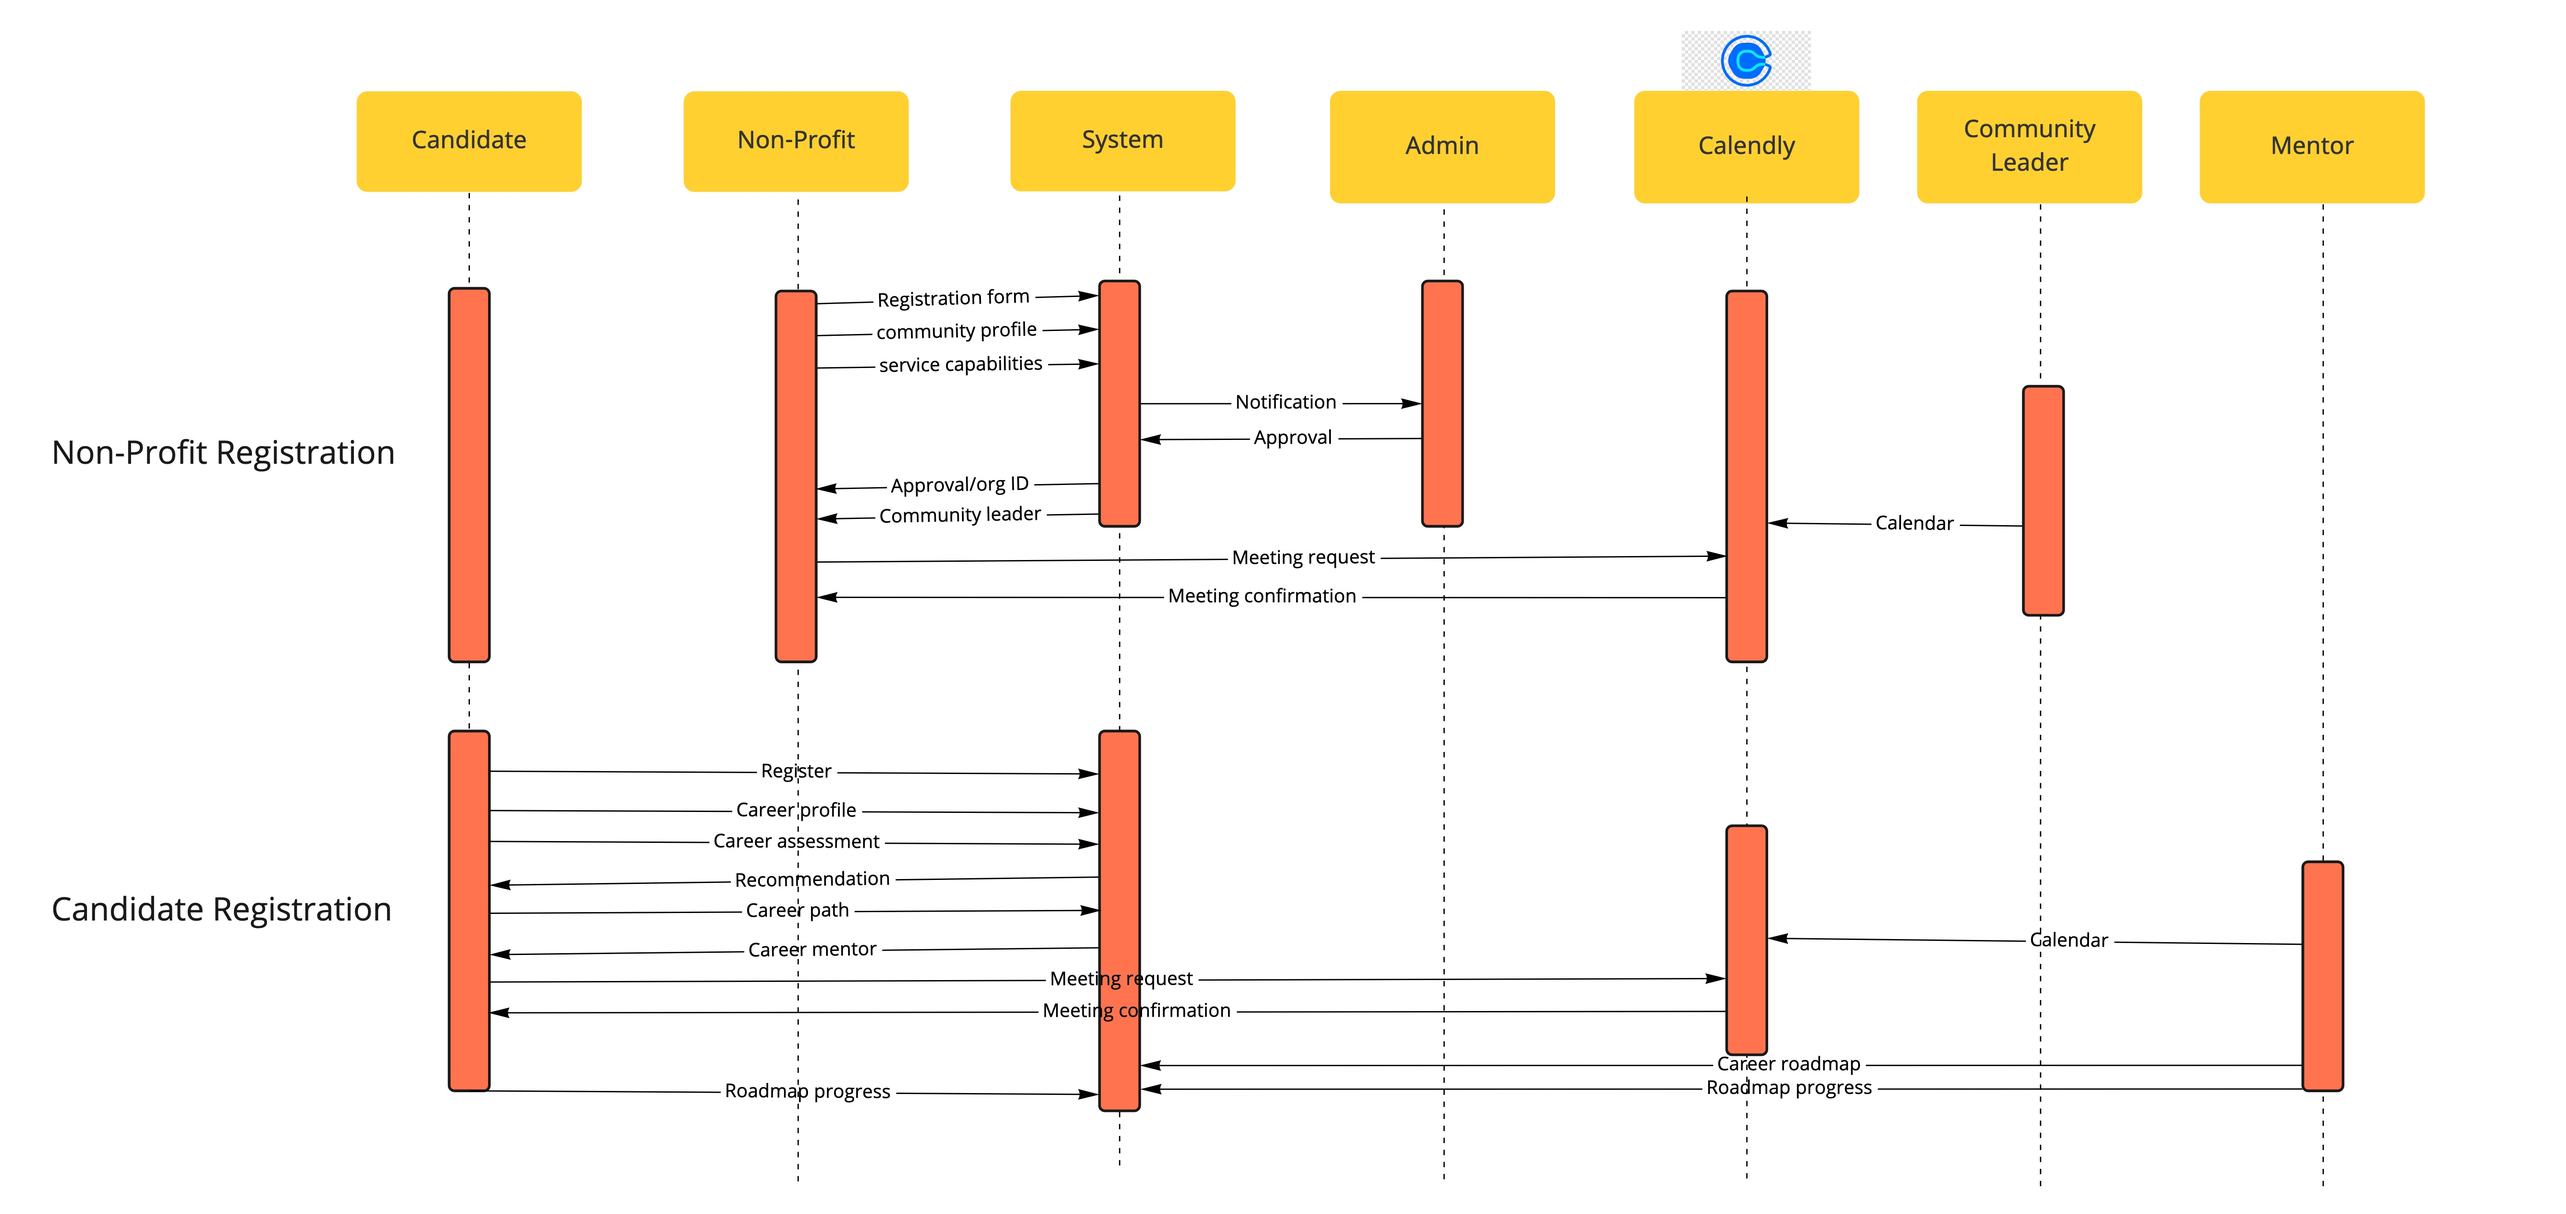
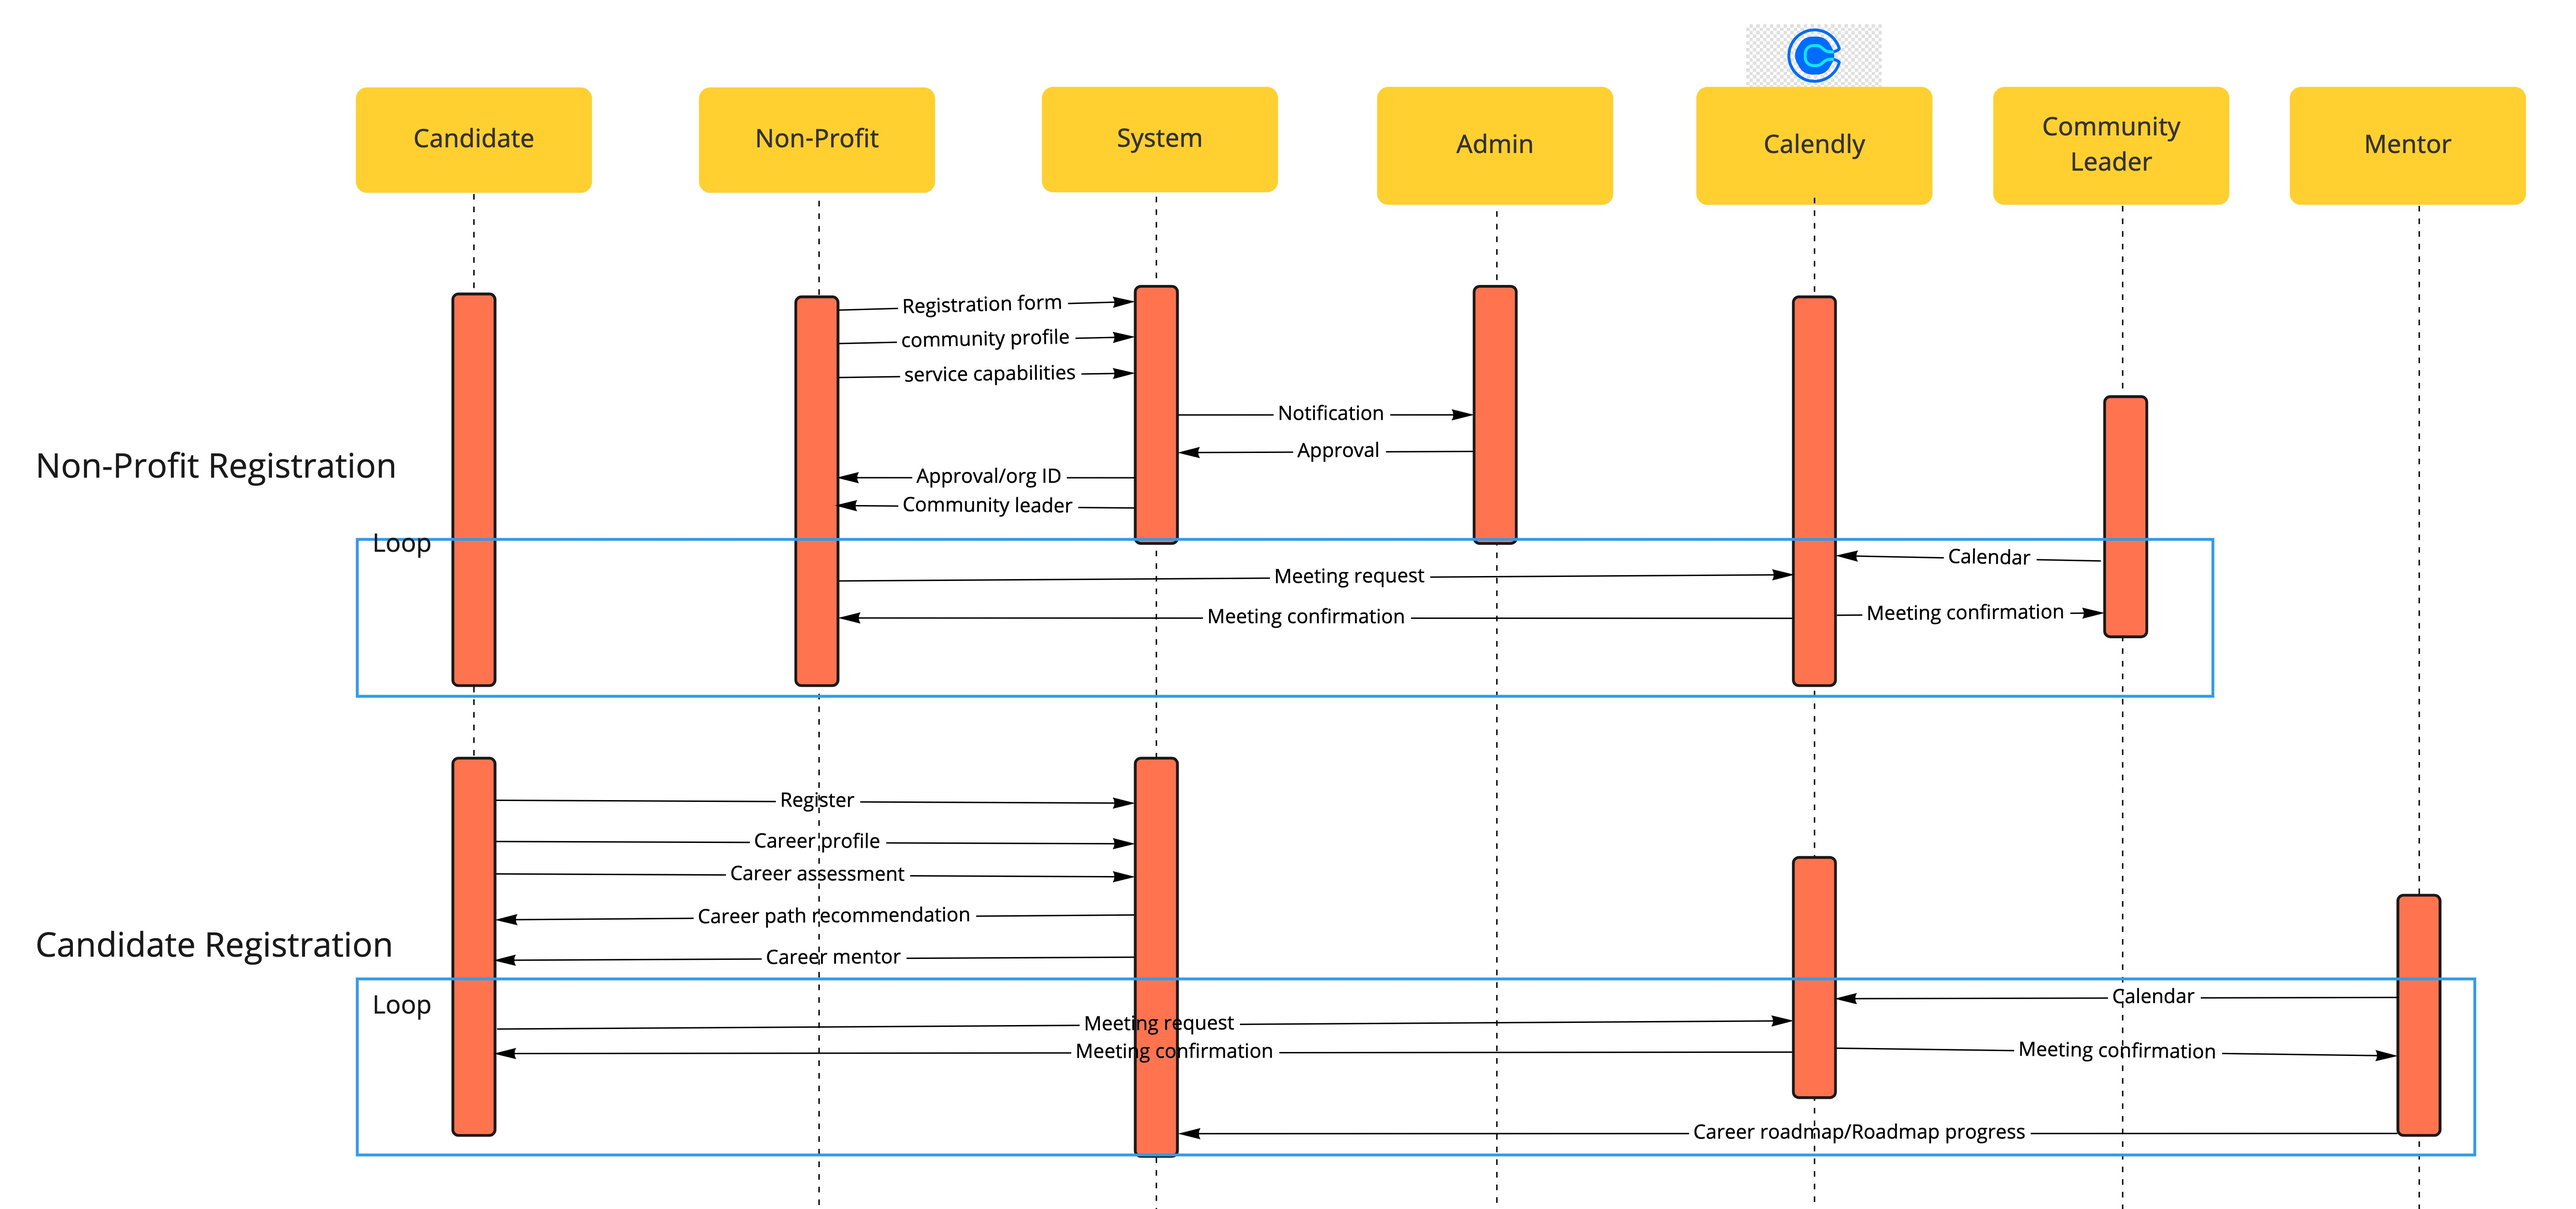
Updated the seq diagram + removed processes and implied requirements

diff --git a/README.md b/README.md
@@ -145,11 +145,29 @@ A technology solution that serves the purpose of enhancing visibility, support, 
 - Tracking candidate progress is a hard requirement
 - Tracking engagement is a hard requirement
 
-## 5. Archectural Characteristics
+## 5. Architectural Characteristics
 
-fixme add back top 5-7 tomorrow
+### Usability
+The end users are not tech-savvy; therefore the success of this product depends on how easy the user can learn new features and how easy it is to use the system on different devices.
 
-See all implied requirements [here](docs/ImpliedRequirements.md)
+### Security
+The application is exposed on the web which always has the risk of cyberattacks, if the application accessed by unauthorized users. Moreover, the system stores sensitive information, such as personal data.
+
+### Privacy
+The system needs to handle the PII of candidates. Personal information must be accessed by the authorized administrators, mentors, and non-profit representatives.
+
+### Interoperability
+The purpose of this product is to facilitate the collaboration between non-profits. To achieve this goal, Spotlight needs to communicate with other external systems (such as childcare/housing services) and other legacy systems.
+
+### Feasibility
+The cost and time to develop and maintain this application is a driving factor. The consumers of this platform are the non-profit organizations for whom, it is important to minimize the operational cost.
+
+### Data Integrity
+The candidate's career path and progress, as well as non-profit information are accessed by multiple personas. It is crucial to ensure the data is accessed by the authorized person, and the accuracy of the data is maintained throughout its lifecycle.
+
+### Responsiveness
+Since Spotlight is user-facing, it is important to ensure the system responds to the end user requests in a timely manner.
+
 
 ## 6. Proposed Solution
 
@@ -201,11 +219,8 @@ For a detailed breakout of components from the HLD, and their handling, see [her
 
 #### i. Processes
 
-  [click here for processes fixme](docs/Processes.md)
-  TODO Samria
 
 ```diff
-- Samira - Processes doc
 - Donald - Add Phase 2 statement RE refinement
 ```
   
